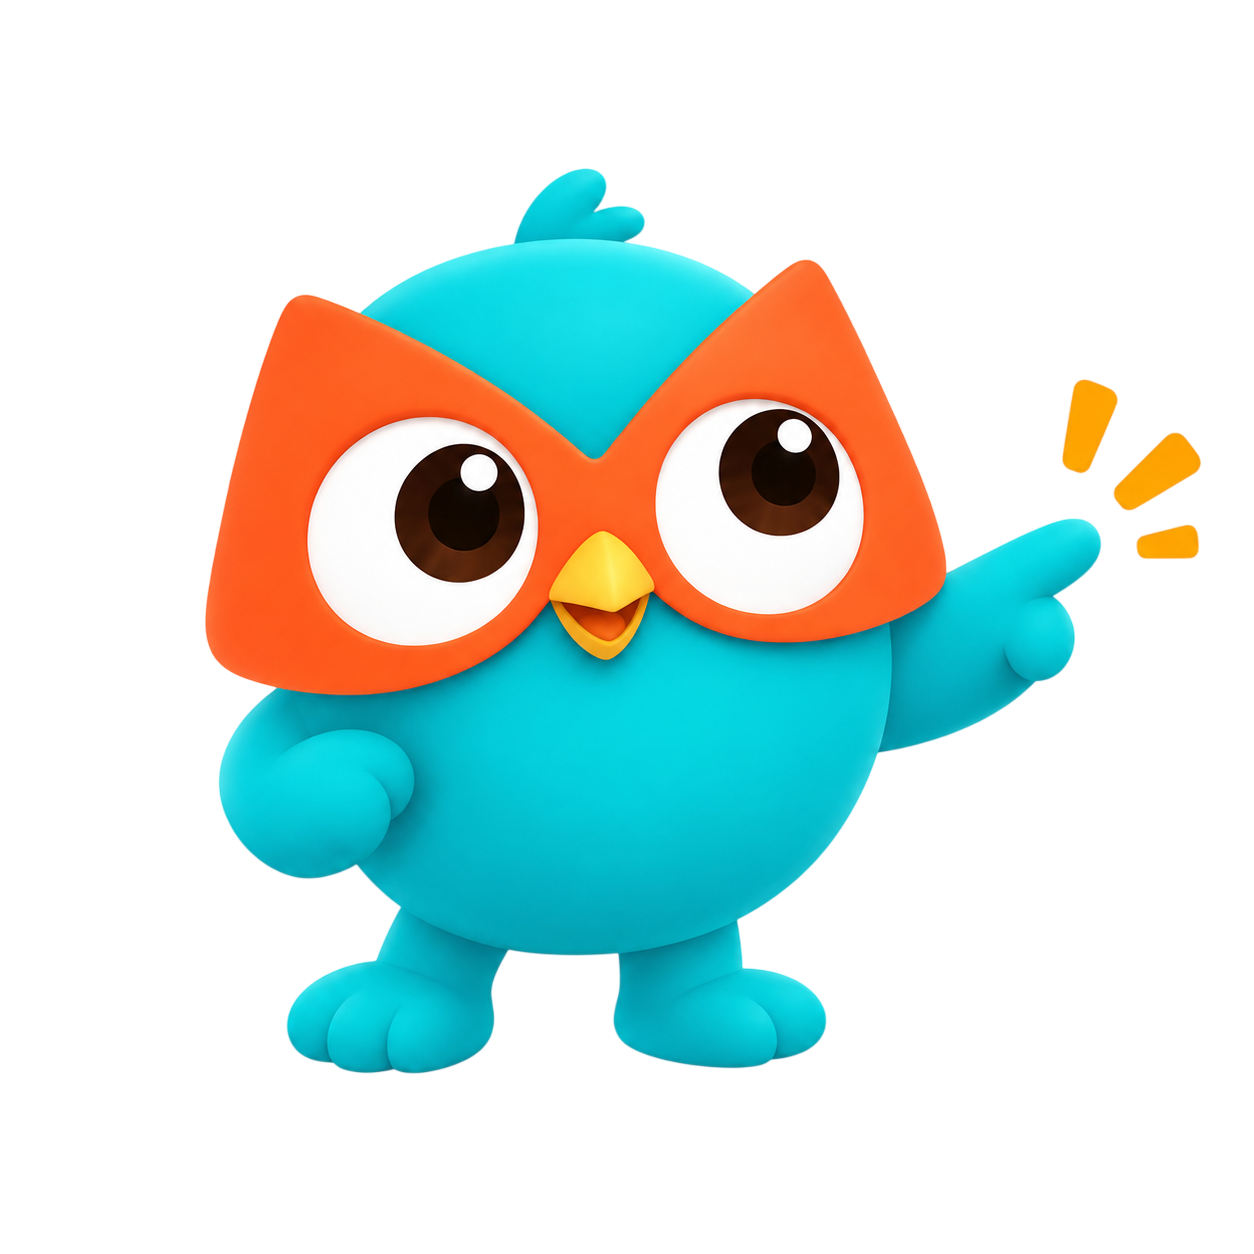
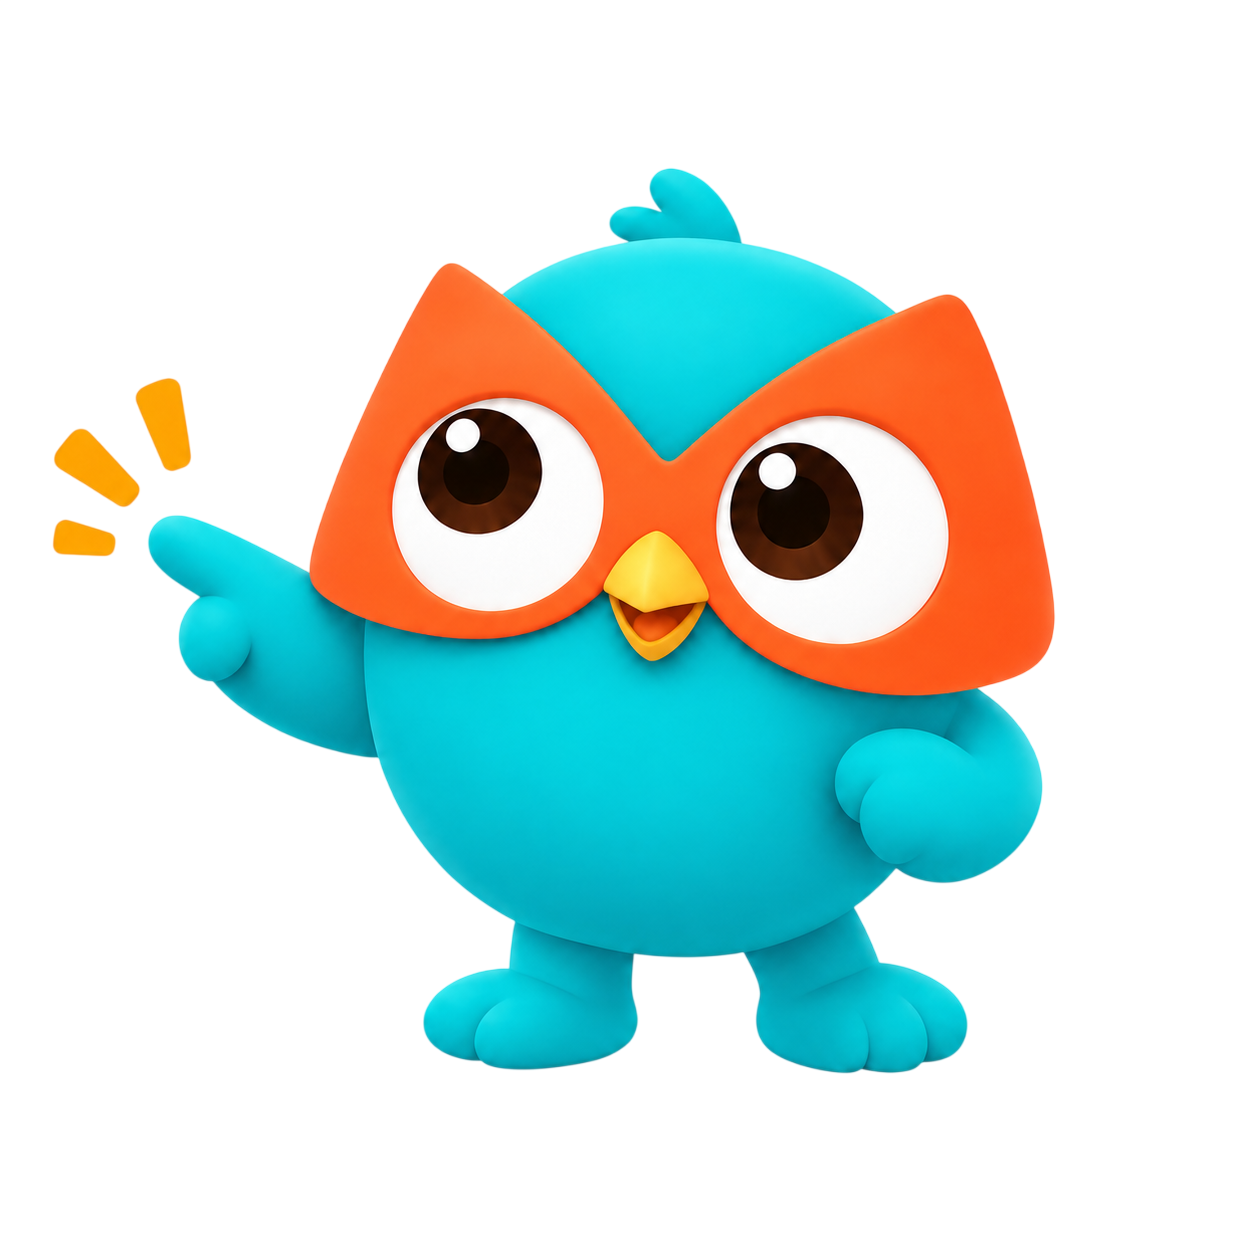
update mascot images

Changed region(s): [[0.1244, 0.1244, 0.9641, 0.8708], [0.0311, 0.3421, 0.1244, 0.4665], [0.0933, 0.2799, 0.1555, 0.3732]]

diff --git a/lib/features/exam/screens/grade_roadmap_screen.dart b/lib/features/exam/screens/grade_roadmap_screen.dart
@@ -821,6 +821,15 @@ class _RoadmapLevelLabel extends StatelessWidget {
 
   @override
   Widget build(BuildContext context) {
+    const numberStyle = TextStyle(
+      color: Colors.white,
+      fontSize: 38,
+      fontWeight: FontWeight.w900,
+      height: 1,
+      shadows: [
+        Shadow(color: Color(0x33744E24), offset: Offset(0, 2), blurRadius: 3),
+      ],
+    );
     return Column(
       mainAxisSize: MainAxisSize.min,
       children: [
@@ -841,21 +850,31 @@ class _RoadmapLevelLabel extends StatelessWidget {
           ),
         ),
         const SizedBox(height: 3),
-        Text(
-          '$level',
-          style: const TextStyle(
-            color: Colors.white,
-            fontSize: 38,
-            fontWeight: FontWeight.w900,
-            height: 1,
-            shadows: [
-              Shadow(
-                color: Color(0x33744E24),
-                offset: Offset(0, 2),
-                blurRadius: 3,
+        Stack(
+          alignment: Alignment.center,
+          children: [
+            // Reinforce the glyphs even when the inherited font has no
+            // heavier weight, without changing their size or semantics.
+            ExcludeSemantics(
+              child: RichText(
+                textScaler: MediaQuery.textScalerOf(context),
+                text: TextSpan(
+                  text: '$level',
+                  style: DefaultTextStyle.of(context).style
+                      .merge(numberStyle)
+                      .copyWith(
+                        foreground: Paint()
+                          ..color = Colors.white
+                          ..style = PaintingStyle.stroke
+                          ..strokeWidth = 1.6
+                          ..strokeJoin = StrokeJoin.round,
+                        shadows: const [],
+                      ),
+                ),
               ),
-            ],
-          ),
+            ),
+            Text('$level', style: numberStyle),
+          ],
         ),
       ],
     );

diff --git a/lib/features/games/screens/games_coming_soon_tab.dart b/lib/features/games/screens/games_coming_soon_tab.dart
@@ -22,7 +22,7 @@ class GamesComingSoonTab extends StatelessWidget {
             mainAxisSize: MainAxisSize.min,
             children: [
               Image.asset(
-                'assets/images/numi-mascot.png',
+                'assets/images/games-coming-soon-mascot.png',
                 width: 220,
                 height: 220,
                 fit: BoxFit.contain,
